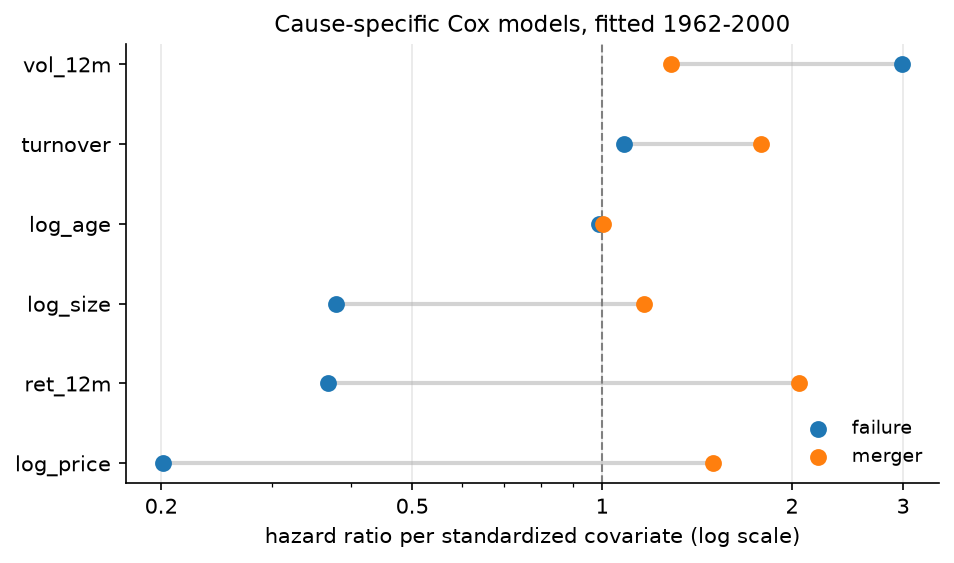
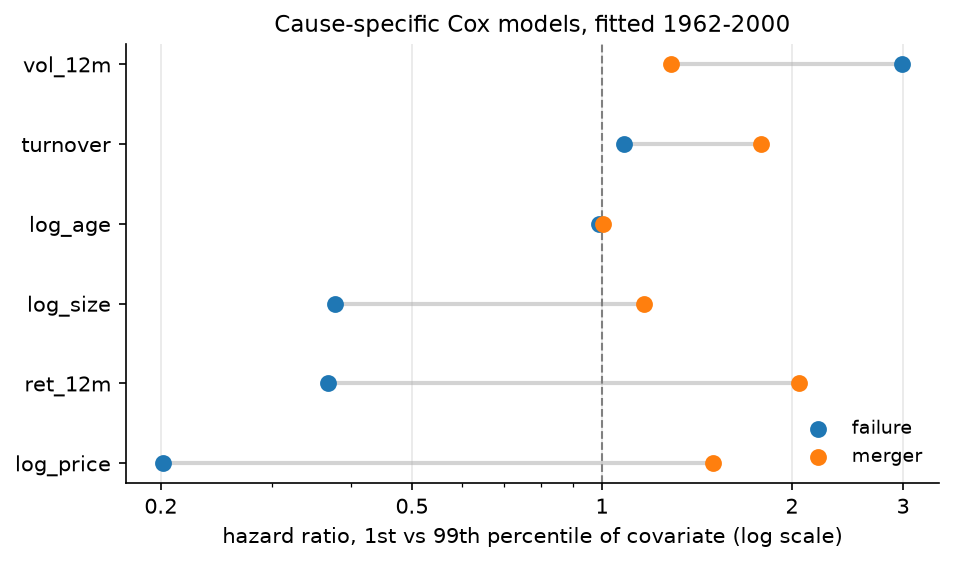
Describe hazard ratios on their actual scale

Changed region(s): [[0.2128, 0.9361, 0.8816, 0.9663], [0.152, 0.8757, 0.1824, 0.9059]]

diff --git a/src/delisting/model.py b/src/delisting/model.py
@@ -26,10 +26,13 @@ def fit_bounds(train: pd.DataFrame, cols: list[str] = FEATURES) -> pd.DataFrame:
 
 
 def apply_bounds(df: pd.DataFrame, bounds: pd.DataFrame) -> pd.DataFrame:
-    """Clip each covariate to its training bounds and standardize it.
+    """Clip each covariate to its training bounds and rescale them to [0, 1].
 
-    Standardizing puts the covariates on one scale, so each hazard ratio is
-    the risk multiplier per standard deviation of that covariate.
+    x' = (clip(x, p1, p99) - p1) / (p99 - p1)
+
+    A coefficient on x' is the change in log hazard from the training 1st
+    percentile of x to its 99th, so exp(coef) compares a firm at the top of the
+    range with one at the bottom. It is not a per-standard-deviation effect.
     """
     out = df.copy()
     lo, hi = bounds.iloc[0], bounds.iloc[1]

diff --git a/tests/test_model.py b/tests/test_model.py
@@ -1,0 +1,20 @@
+from __future__ import annotations
+
+import pandas as pd
+import pytest
+
+from delisting.model import apply_bounds, fit_bounds
+
+
+def test_apply_bounds_maps_training_percentiles_to_zero_and_one():
+    train = pd.DataFrame({"x": range(101)}, dtype=float)
+    bounds = fit_bounds(train, cols=["x"])
+    out = apply_bounds(pd.DataFrame({"x": [-50.0, 1.0, 50.0, 99.0, 500.0]}), bounds)
+    assert out["x"].tolist() == pytest.approx([0.0, 0.0, 49 / 98, 1.0, 1.0])
+
+
+def test_bounds_come_from_training_data_only():
+    train = pd.DataFrame({"x": range(101)}, dtype=float)
+    test = pd.DataFrame({"x": [1000.0, 2000.0]})
+    bounds = fit_bounds(train, cols=["x"])
+    assert apply_bounds(test, bounds)["x"].tolist() == [1.0, 1.0]

diff --git a/src/delisting/plots.py b/src/delisting/plots.py
@@ -57,7 +57,7 @@ def hazard_ratio_figure(failure: pd.Series, merger: pd.Series) -> Path:
     ax.xaxis.set_minor_formatter(mpl.ticker.NullFormatter())
     ax.set_yticks(y, order)
     ax.grid(axis="y", visible=False)
-    ax.set_xlabel("hazard ratio per standardized covariate (log scale)")
+    ax.set_xlabel("hazard ratio, 1st vs 99th percentile of covariate (log scale)")
     ax.set_title("Cause-specific Cox models, fitted 1962-2000")
     ax.legend(loc="lower right")
     return _save(fig, "hazard_ratios")

diff --git a/README.md b/README.md
@@ -173,9 +173,14 @@ a firm that exited for the cause being modeled.
 Two cause-specific models, failure and merger, each treating the other as censored, fitted with
 `lifelines.CoxTimeVaryingFitter` and a ridge penalty of 0.01.
 
-Covariates are clipped at their training-sample 1st and 99th percentiles and standardized, so
-each hazard ratio is the change in risk per standard deviation of the covariate. The percentiles
-come from the training years only.
+Each covariate is clipped to its training-sample 1st and 99th percentiles and rescaled to [0, 1]:
+
+```math
+x' = \frac{\min(\max(x, p_{1}), p_{99}) - p_{1}}{p_{99} - p_{1}}
+```
+
+so a hazard ratio compares a firm at the 99th percentile of that covariate with one at the 1st,
+holding the others fixed. The percentiles come from the training years only.
 
 ### Train and test
 
@@ -195,17 +200,20 @@ same row.
 
 ![Hazard ratios by cause](reports/figures/hazard_ratios.png)
 
-| covariate | failure HR | merger HR | p (failure) |
-|---|---:|---:|---:|
-| `log_price` | 0.201 | 1.497 | <0.001 |
-| `ret_12m` | 0.368 | 2.054 | <0.001 |
-| `log_size` | 0.378 | 1.165 | <0.001 |
-| `vol_12m` | 2.992 | 1.288 | <0.001 |
-| `turnover` | 1.084 | 1.783 | 0.043 |
-| `log_age` | 0.990 | 1.005 | 0.73 |
+| covariate | failure HR | merger HR | failure HR per sd | p (failure) |
+|---|---:|---:|---:|---:|
+| `log_price` | 0.201 | 1.497 | 0.720 | <0.001 |
+| `ret_12m` | 0.368 | 2.054 | 0.849 | <0.001 |
+| `log_size` | 0.378 | 1.165 | 0.810 | <0.001 |
+| `vol_12m` | 2.992 | 1.288 | 1.216 | <0.001 |
+| `turnover` | 1.084 | 1.783 | 1.013 | 0.043 |
+| `log_age` | 0.990 | 1.005 | 0.998 | 0.73 |
 
-Read `log_price` as: one standard deviation higher price multiplies the monthly failure hazard by
-0.201 and the merger hazard by 1.497.
+The first two columns are 1st-to-99th-percentile ratios. Going from a 1st-percentile price to a
+99th-percentile price multiplies the monthly failure hazard by 0.201 and the merger hazard by
+1.497. That range is 4 to 6 standard deviations wide for every covariate, so the
+per-standard-deviation effects in the third column are much smaller: one sd of price lowers the
+failure hazard by about 28%.
 
 Price, size and past return lower the failure hazard and raise the merger hazard. A pooled model
 would net these against each other, which is the case for competing risks.
@@ -251,7 +259,7 @@ in sample (2.99, p < 0.0001). The section on time variation explains why.
 ### Accounting covariates
 
 With the four CHS ratios added, every accounting coefficient is significant and has the expected
-sign:
+sign (same 1st-to-99th-percentile scale):
 
 | covariate | HR | p |
 |---|---:|---:|
@@ -556,7 +564,7 @@ survive factor adjustment and the multiple-testing correction.
 
 ```bash
 uv sync
-uv run pytest                                   # 28 tests on synthetic data, no WRDS needed
+uv run pytest                                   # 30 tests on synthetic data, no WRDS needed
 uv run python -m delisting.wrds_extract --all
 ```
 
